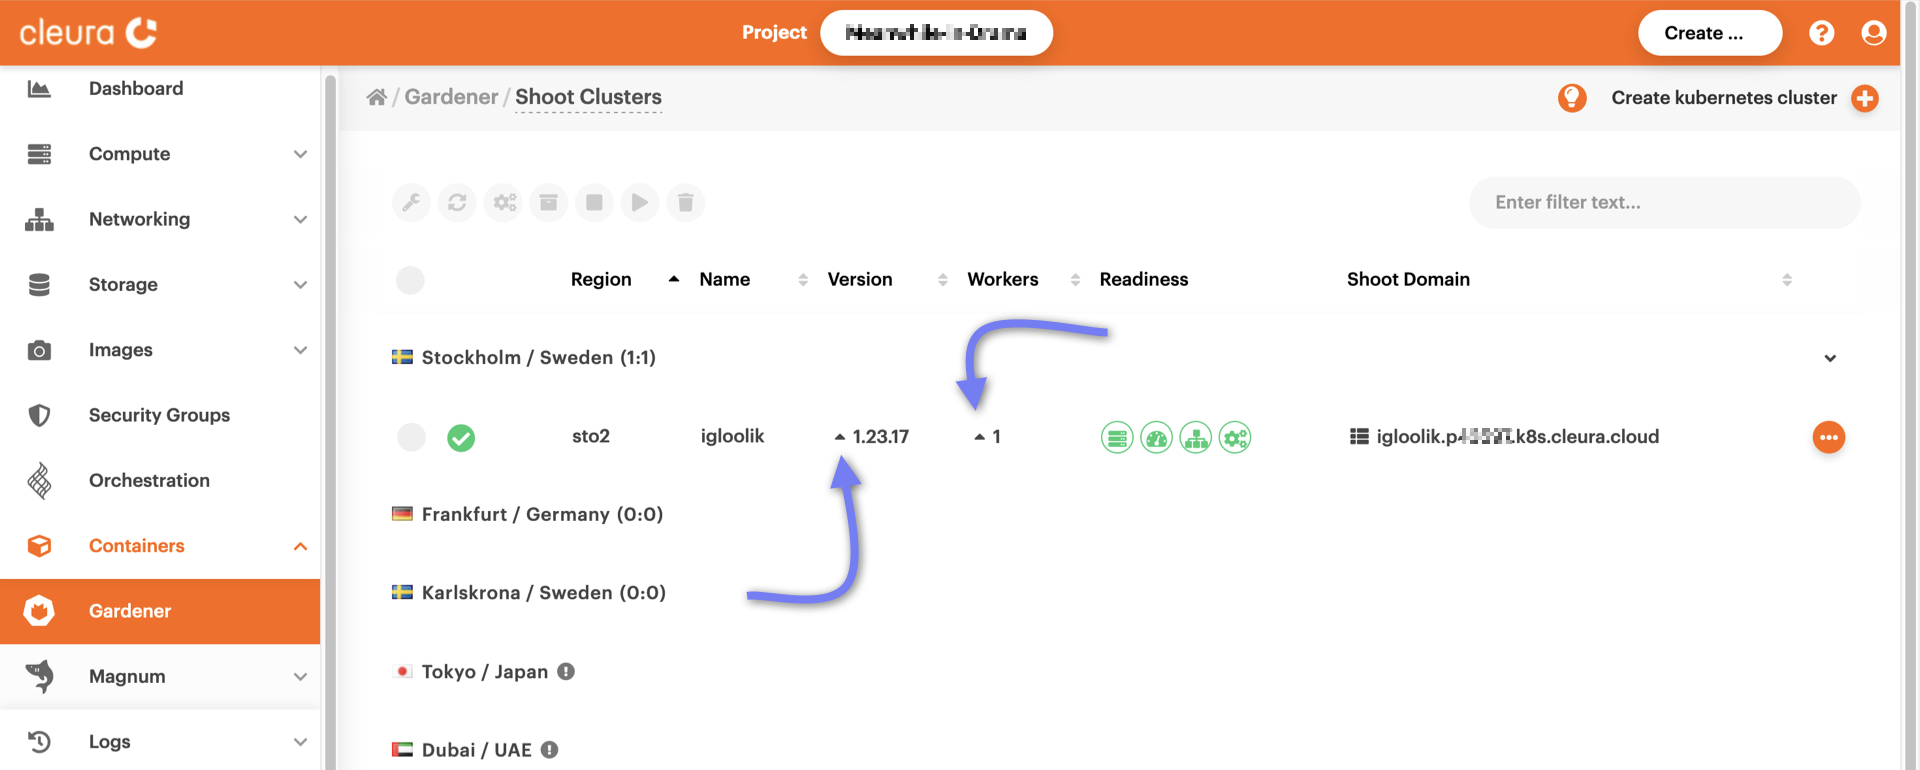
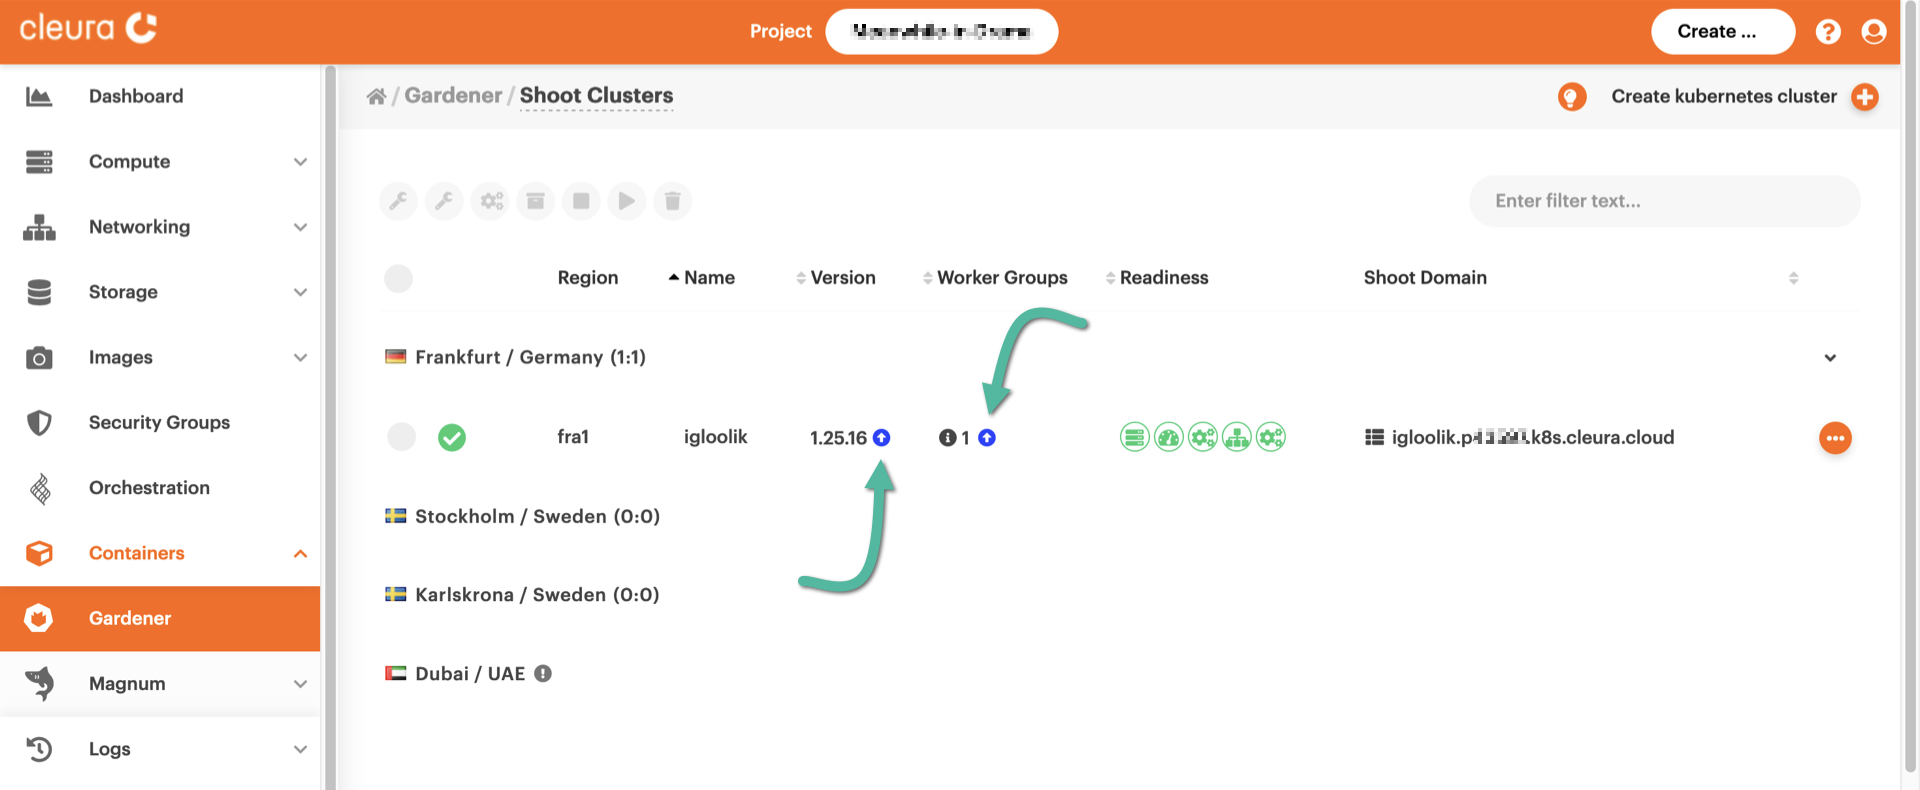
fix: Add missing screenshot to Gardener upgrade How-To
A screenshot from the Gardener upgrade How-To guide is
missing, so we make sure it's there. While at it, we refresh
all screenshots and introduce slight modifications to prose
due to minor UI changes.

diff --git a/docs/howto/kubernetes/gardener/rolling-upgrades.md b/docs/howto/kubernetes/gardener/rolling-upgrades.md
@@ -21,25 +21,25 @@ In the left-hand vertical pane of the {{gui}}, select Containers →
 [{{k8s_management_service}}](https://{{gui_domain}}/containers/gardener).
 In the central pane, you will see all your {{k8s_management_service}}
 clusters, each on its own row. If a Kubernetes upgrade is available, in
-the *Versions* column you will notice a triangular marker together with
-the new Kubernetes version. On the other hand, if there is a new machine
-image version for the cluster nodes, then in the *Workers* column you
-will notice just a triangular marker and no version number.
+the *Version* column you will notice a blue :fontawesome-solid-circle-arrow-up: icon, together with
+the new Kubernetes version. Additionally, if there is a new machine
+image version for the cluster nodes, then in the *Worker Groups* column you
+will also notice a blue :fontawesome-solid-circle-arrow-up: icon but no version number.
 
 ![Garden Linux and Kubernetes upgrades available](assets/rollupgr-01.png)
 
 To get more information about the new machine image available, click on
-the cluster row to bring its details into view, then select the *Worker
+the cluster row to bring its details up into view, then select the *Worker
 Groups* tab. There, you will see the version of the new machine image.
 To start the upgrade process, click any of the two
-:fontawesome-solid-arrows-rotate: icons.
+:fontawesome-solid-arrow-up: icons.
 
 ![About to start Garden Linux upgrade](assets/rollupgr-02.png)
 
 The upgrade process will start immediately and will take some time to
-complete. After it is done, there will be no triangular marker in the
-*Workers* column, and the new image version will be displayed in the
-*Worker groups* tab. Our example still has a triangular marker in the
+complete. A little before and after it is done, there will be no icon in the
+*Worker Groups* column, and the new image version will be displayed in the
+*Image* row of the *Worker Groups* tab. Our example still has an icon in the
 *Version* column. That is because we have not upgraded Kubernetes yet.
 
 ![Garden Linux upgraded](assets/rollupgr-03.png)
@@ -62,7 +62,16 @@ to.  When ready, click the blue *Upgrade* button to start the process.
 
 ![About to start a Kubernetes upgrade](assets/rollupgr-05.png)
 
+You will realize that the upgrade doesn't start right away. Instead, you
+are informed that the cluster is indeed ready for it, but there are some
+notes you might want to read up on before the whole process begins. If
+you do, copy and paste the provided URL into a separate browser tab or
+window. In any case, to actually get the upgrade going, click the
+*Upgrade* button which is now green.
+
+![Upgrade notes are available](assets/rollupgr-06.png)
+
 After some minutes, the upgrade will be over. The new Kubernetes version
 will be visible in the *Version* column of the cluster row.
 
-![Kubernetes upgraded](assets/rollupgr-06.png)
+![Kubernetes successfully upgraded](assets/rollupgr-07.png)
